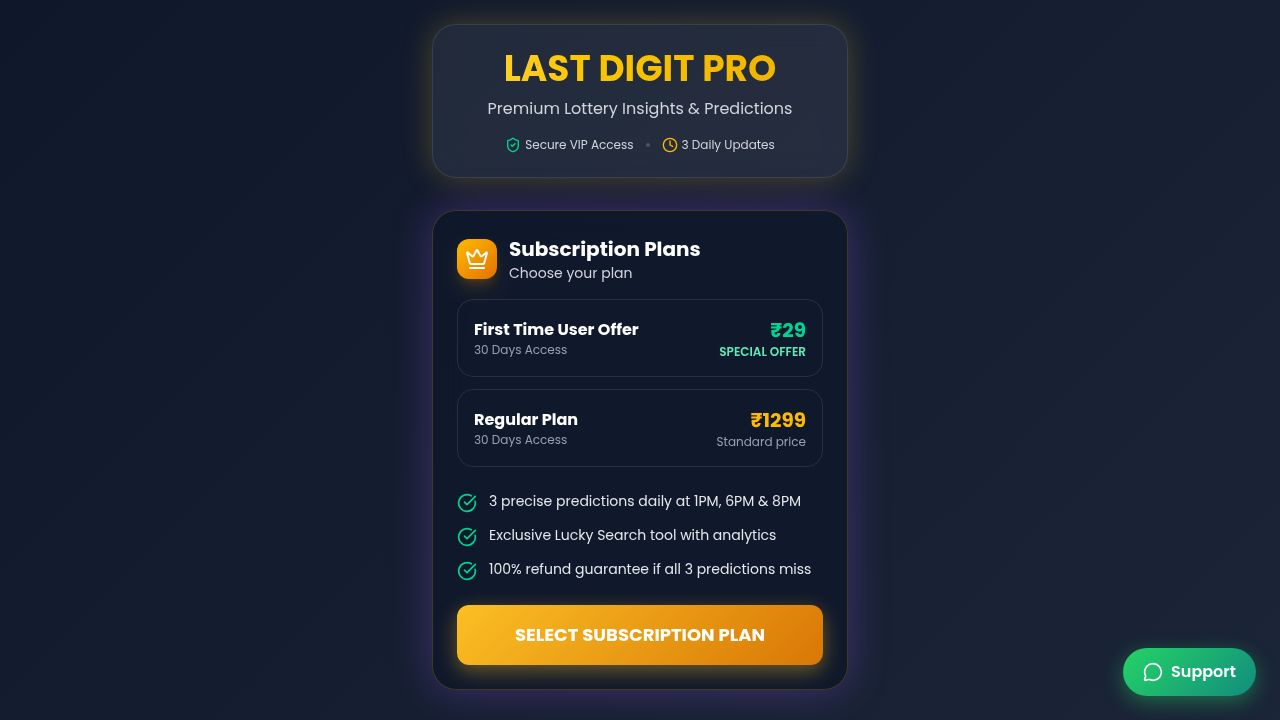
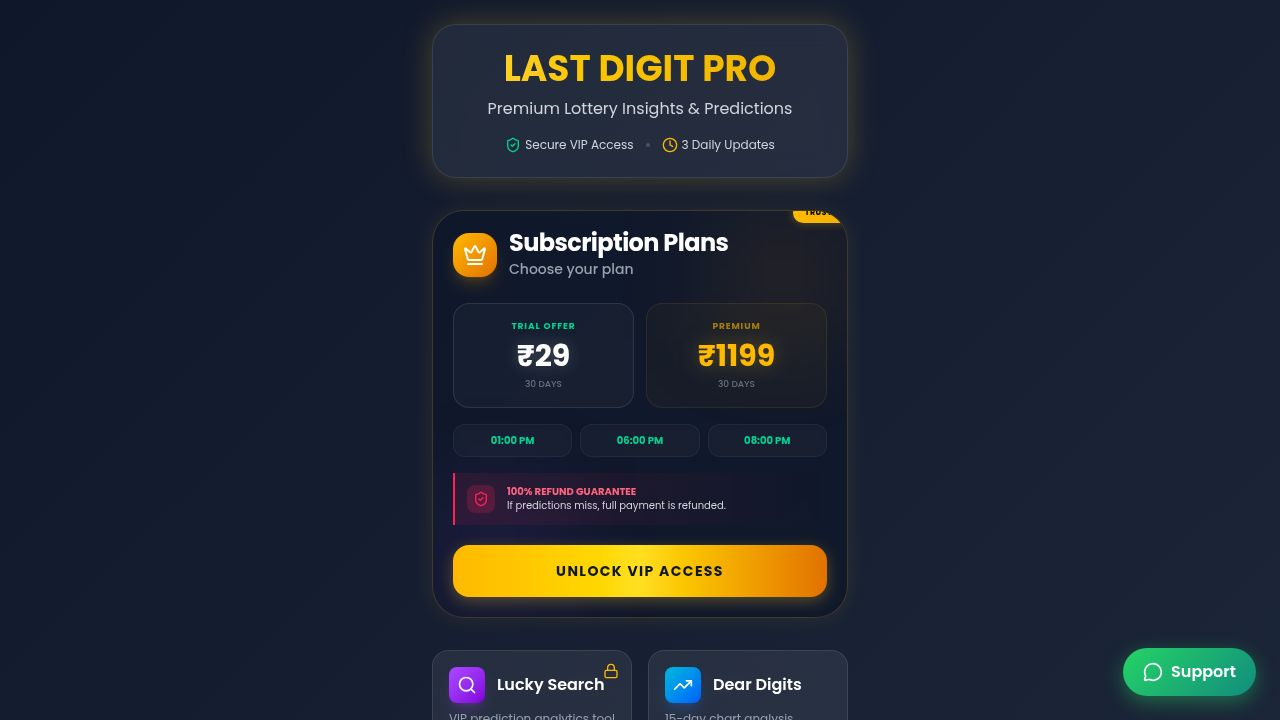
Update subscription plan header with premium styling and clear text
Update the VIP section header to include "Subscription Plans" and "Choose your plan" with gradient icon and adjusted typography to match design reference.

Replit-Commit-Author: Agent
Replit-Commit-Session-Id: 708a5708-dc1c-4117-baba-bccf3c5c0422
Replit-Commit-Checkpoint-Type: full_checkpoint
Replit-Commit-Event-Id: 64debd30-eaf4-401d-9cf3-2c7ed597b4d8
Replit-Commit-Screenshot-Url: https://storage.googleapis.com/screenshot-production-us-central1/4947a880-1f15-4a68-bbfb-d67398aa011e/708a5708-dc1c-4117-baba-bccf3c5c0422/Unn4Yua
Replit-Helium-Checkpoint-Created: true

diff --git a/client/src/pages/home.tsx b/client/src/pages/home.tsx
@@ -89,11 +89,14 @@ export default function Home() {
             </div>
           </div>
 
-          <div className="flex items-center gap-2 mb-4 relative z-10">
-            <div className="p-1.5 bg-amber-400/10 rounded-lg">
-              <Crown className="w-5 h-5 text-amber-400 drop-shadow-[0_0_5px_rgba(251,191,36,0.5)]" />
+          <div className="flex items-center gap-3 mb-6 relative z-10">
+            <div className="p-2.5 bg-gradient-to-br from-amber-400 to-amber-600 rounded-2xl shadow-lg shadow-amber-500/20">
+              <Crown className="w-6 h-6 text-white" />
             </div>
-            <h2 className="text-lg font-black text-white tracking-tight uppercase bg-gradient-to-r from-white to-gray-400 bg-clip-text text-transparent">VIP Daily Access</h2>
+            <div>
+              <h2 className="text-2xl font-bold text-white tracking-tight leading-none mb-1">Subscription Plans</h2>
+              <p className="text-sm text-gray-400 font-medium">Choose your plan</p>
+            </div>
           </div>
           
           <div className="grid grid-cols-2 gap-3 mb-4 relative z-10">
